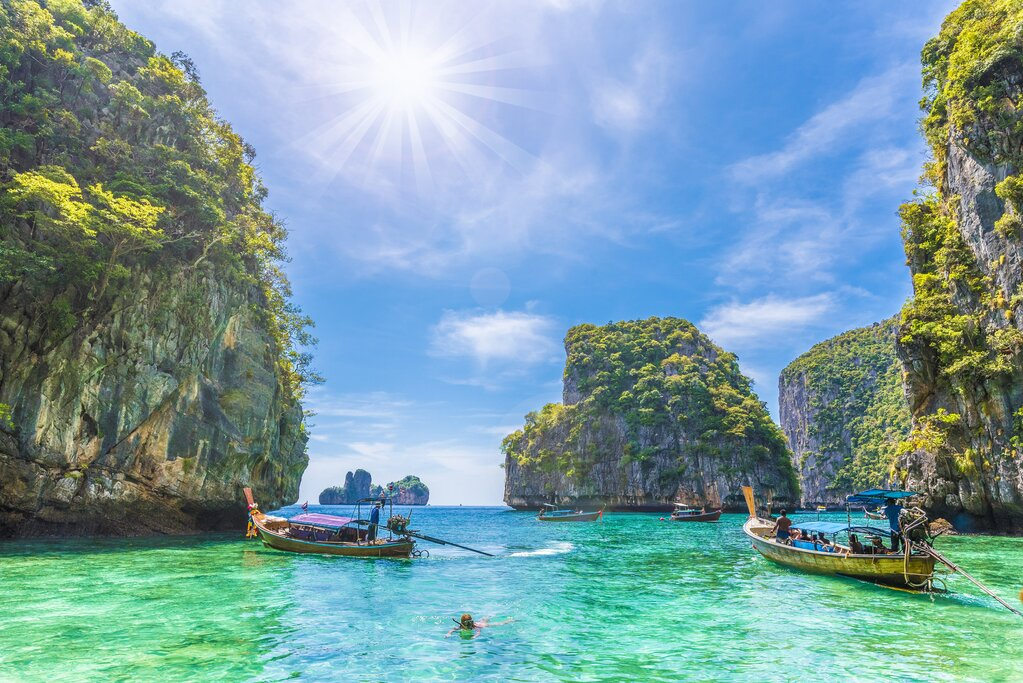
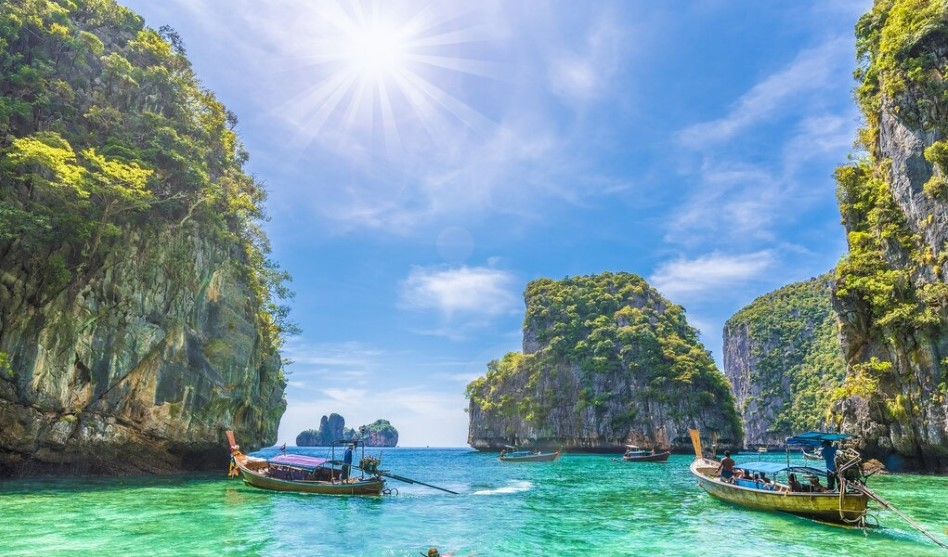
added grid cards

diff --git a/index.html b/index.html
@@ -17,14 +17,14 @@
       <header>
         <h3>.TRAVEL.</h3>
         <h1>Welcome to Phuket</h1>
-        <h2>Biggest island of Thailand</h2>
+        <h2>Biggest Island of Thailand</h2>
         <a href="#more">Learn More</a>
       </header>
       <main>
         <section class="grid grid-2-columns">
           <div>
             <img
-              src="images/phuket-thailand.jpg"
+              src="images/phuket-attraction.jpg"
               alt="Palm Trees Phuket"
               class="img-responsive"
             />
@@ -56,6 +56,120 @@
               traditions. Phuket is not just a getaway; it's a vibrant journey
               that offers something for every traveler.
             </p>
+          </div>
+        </section>
+        <section class="secondary">
+          <h2 class="text-center">Things To Do</h2>
+          <h3 class="text-center">In Phuket</h3>
+
+          <div class="grid grid-3-columns">
+            <div class="card">
+              <div class="card-header">
+                <img
+                  src="images/phuket-food.jpg"
+                  alt=""
+                  class="img-responsive"
+                />
+              </div>
+
+              <div class="card-body">
+                <h4>L’Arôme by the Sea</h4>
+                <p>
+                  Is renowned for its modern French cuisine and stunning sea
+                  views. A Michelin-listed destination, it offers an
+                  extraordinary dining experience.
+                </p>
+                <h5>Address:</h5>
+                <p>247 Phrabarami Rd</p>
+                <h5>Exquisite French Dining by the Sea</h5>
+                <p>
+                  Chef Hollenstein curates a menu at L’Arôme by the Sea that
+                  combines modern French culinary artistry. Up to a 7-course
+                  menu, featuring dishes that surprise with their complex
+                  flavors and harmonious balance.
+                </p>
+              </div>
+              <div class="card-footer">
+                <a
+                  href="https://maps.app.goo.gl/QxR5Y6gzTJCoWy5y6"
+                  class="btn"
+                  target="_blank"
+                >
+                  Learn More
+                </a>
+              </div>
+            </div>
+            <div class="card">
+              <div class="card-header">
+                <img
+                  src="images/swing-phuket.jpg"
+                  alt=""
+                  class="img-responsive"
+                />
+              </div>
+
+              <div class="card-body">
+                <h4>Rock Beach Swing</h4>
+                <p>
+                  From the gentle embrace of the double suspension swings to the
+                  adrenaline rush of the panoramic sea view swings.
+                </p>
+                <h5>Address:</h5>
+                <p>Wichit, Mueang Phuket District</p>
+                <h5>An Unforgettable Experience</h5>
+                <p>
+                  Beyond the swings, you'll find charming photo spots like bird
+                  nests and sea cubes, offering endless opportunities for that
+                  perfect shot. The attraction is a wonderful blend of adventure
+                  and relaxation.
+                </p>
+              </div>
+              <div class="card-footer">
+                <a
+                  href="https://maps.app.goo.gl/Bpf46DXbXMfg33RJA"
+                  class="btn"
+                  target="_blank"
+                >
+                  Learn More
+                </a>
+              </div>
+            </div>
+            <div class="card">
+              <div class="card-header">
+                <img
+                  src="images/phuket-nightlife.jpg"
+                  alt=""
+                  class="img-responsive"
+                />
+              </div>
+
+              <div class="card-body">
+                <h4>A Premier Nightlife</h4>
+                <p>
+                  Offering diverse music by world-renowned DJs like Martin
+                  Garrix and Steve Aoki, it's an electrifying party atmosphere
+                  every night.
+                </p>
+                <h5>Address:</h5>
+                <p>31 Bangla Rd</p>
+                <h5>Strategic Location and Unmatched Vibes</h5>
+                <p>
+                  Located on the vibrant Thanon Bangla in Pa Tong, dance the
+                  night away or enjoy the night in style at one of the VIP
+                  tables, Illuzion offers an unmatched vibe as one of the best
+                  nightclubs in Phuket.
+                </p>
+              </div>
+              <div class="card-footer">
+                <a
+                  href="https://maps.app.goo.gl/JE7fHwsFuBrDFGhy8"
+                  class="btn"
+                  target="_blank"
+                >
+                  Learn more
+                </a>
+              </div>
+            </div>
           </div>
         </section>
       </main>

diff --git a/src/styles.css b/src/styles.css
@@ -1,11 +1,15 @@
 body {
   font-family: "Poppins", sans-serif;
-  background: #272044;
+  background: #034950;
 }
 
 .container {
   max-width: 1400px;
   margin: 0 auto;
+}
+
+.text-center {
+  text-align: center;
 }
 
 .grid {
@@ -15,57 +19,56 @@ body {
 
 .img-responsive {
   max-width: 100%;
+  display: block;
 }
 
 .grid-2-columns {
   grid-template-columns: 1fr 1fr;
 }
 
+.grid-3-columns {
+  grid-template-columns: 1fr 1fr 1fr;
+}
+
 .grid-3-columns-with-first-narrow {
   grid-template-columns: 1fr 2fr 2fr;
 }
 
-section {
-  max-width: 1200px;
-  margin: 0 auto;
-  padding: 100px 0;
+.card-body {
+  padding: 30px;
 }
 
-main {
-  background-color: white;
+.card-footer {
+  padding: 0 30px 30px;
 }
 
-main h2 {
+.btn {
+  display: block;
+  color: white;
   font-weight: 700;
-  font-size: 16px;
-  line-height: 1.5;
-  margin: 0;
-  letter-spacing: 7px;
-  color: #272044;
-  opacity: 0.3;
+  font-size: 14px;
+  line-height: 21px;
+  text-align: center;
+  letter-spacing: 3px;
   text-transform: uppercase;
+  padding: 16px;
+  background-color: #0aa79d;
+  text-decoration: none;
 }
 
-main h3 {
-  font-weight: 700;
-  font-size: 40px;
-  line-height: 1.5;
-  color: #272044;
-  margin: 0;
+section {
+  max-width: 100%;
+  margin: 0 auto;
+  padding: 100px;
 }
 
-main p {
-  font-style: normal;
-  font-weight: 400;
-  font-size: 16px;
-  line-height: 1.5;
-  color: #272044;
-  opacity: 0.7;
+section.secondary {
+  background-color: #f8f8f8;
 }
 
 header {
   background-image: linear-gradient(rgba(0, 0, 0, 0.6), rgba(0, 0, 0, 0.6)),
-    url("../images/phuket-thailand.jpg");
+    url("../images/phuket-boats.jpg");
   background-repeat: no-repeat;
   background-size: cover;
   color: white;
@@ -100,7 +103,7 @@ header a {
   font-size: 14px;
   line-height: 1.5;
   text-align: center;
-  color: #272044;
+  color: #0d372be5;
   padding: 16px 32px;
   margin-top: 32px;
   display: inline-block;
@@ -110,12 +113,57 @@ header a {
   background: white;
 }
 
+main {
+  background-color: white;
+}
+
+main h2 {
+  font-weight: 700;
+  font-size: 16px;
+  line-height: 1.5;
+  margin: 0;
+  letter-spacing: 7px;
+  color: #046068;
+  opacity: 0.3;
+  text-transform: uppercase;
+}
+
+main h3 {
+  font-weight: 700;
+  font-size: 40px;
+  line-height: 1.5;
+  color: #046068;
+  margin: 0;
+}
+
+main h4 {
+  font-weight: 700;
+  font-size: 24px;
+  line-height: 1;
+  color: #046068;
+  margin: 0;
+}
+
+main h5 {
+  font-weight: 700;
+  font-size: 13px;
+  margin: 0;
+  line-height: 1;
+  color: #046068;
+}
+
+main p {
+  font-style: normal;
+  font-weight: 400;
+  font-size: 16px;
+  line-height: 1.5;
+  color: #046068;
+  opacity: 0.7;
+}
+
 footer {
   color: white;
-  background-image: linear-gradient(
-      rgba(39, 32, 68, 0.9),
-      rgba(39, 32, 68, 0.9)
-    ),
+  background-image: linear-gradient(rgba(4, 96, 104, 1), rgba(4, 96, 104, 0.2)),
     url("../images/phuket-beach-image-fb.png");
 
   background-repeat: no-repeat;
